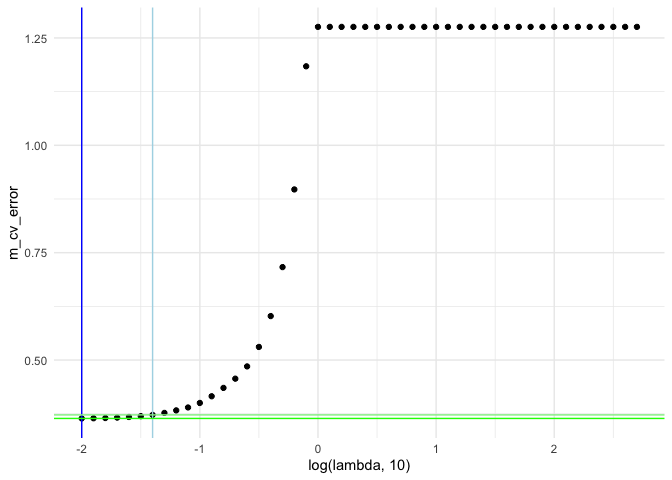
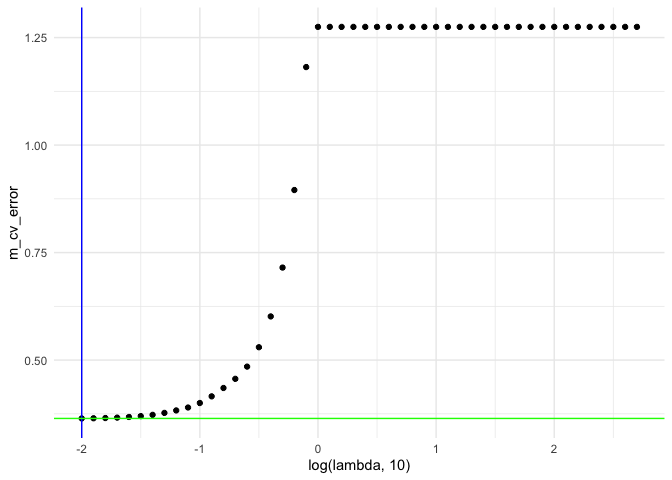
final proofread ~ ready to submit

Changed region(s): [[0.0938, 0.8438, 0.9688, 0.875], [0.0312, 0.0625, 0.0938, 0.0938]]

diff --git a/p8105_hw6_jg5038.md b/p8105_hw6_jg5038.md
@@ -121,7 +121,7 @@ Get the data:
 data("weather_df")
 ```
 
-Write the bootstrap function, run 5000 times and get \$^2,
+Write the bootstrap function, run 5000 times and get $\widehat{r}^2$,
 $\hat{\beta}_1$ and $\hat{\beta}_2$ :
 
 ``` r
@@ -159,10 +159,10 @@ b1_plot + b2_plot
 <img src="p8105_hw6_jg5038_files/figure-gfm/unnamed-chunk-7-1.png" width="90%" />
 
 $\hat{\beta}_1$ and $\hat{\beta}_2$ are both approximately normally
-distributed with means 1.017 and -0.006.
+distributed with means 1.018 and -0.006.
 
-Provide 95% confidence interval for \$^2 and $\hat{\beta}_1$ /
-$\hat{\beta}_2$ :
+Provide 95% confidence interval for $\widehat{r}^2$ and $\hat{\beta}_1$
+/ $\hat{\beta}_2$ :
 
 ``` r
 weather_sample_df |> 
@@ -183,10 +183,10 @@ weather_sample_df |>
 
 | estimate   |     ci.lower |     ci.upper |
 |:-----------|-------------:|-------------:|
-| beta_1_hat |    1.0056121 |    1.0281463 |
-| beta_2_hat |   -0.0083961 |   -0.0034519 |
-| beta_ratio | -294.0147784 | -120.3611740 |
-| r_sq_hat   |    0.9334543 |    0.9458485 |
+| beta_1_hat |    1.0067701 |    1.0252306 |
+| beta_2_hat |   -0.0078664 |   -0.0038033 |
+| beta_ratio | -267.4301170 | -129.4087458 |
+| r_sq_hat   |    0.9349792 |    0.9460010 |
 
 ## Problem 3
 
@@ -290,17 +290,14 @@ lm_3_predictors = function(df) {
 
 lm_3_fit = lm_3_predictors(birth_df)
 
-#get built in plots for diagnostics
-plot(lm_3_fit)
+#check built in plots for diagnostics
+#plot(lm_3_fit)
 ```
-
-<img src="p8105_hw6_jg5038_files/figure-gfm/unnamed-chunk-12-1.png" width="90%" /><img src="p8105_hw6_jg5038_files/figure-gfm/unnamed-chunk-12-2.png" width="90%" /><img src="p8105_hw6_jg5038_files/figure-gfm/unnamed-chunk-12-3.png" width="90%" /><img src="p8105_hw6_jg5038_files/figure-gfm/unnamed-chunk-12-4.png" width="90%" />
 
 Get predictions and look at residuals:
 
 ``` r
-bwt_predictions = 
-  birth_df |> 
+birth_df |> 
   select(bwt_lb) |> 
   mutate(
     bwt_lb_pred = predict(lm_3_fit, newx = x),
@@ -310,7 +307,12 @@ bwt_predictions =
   geom_point(alpha = 0.5)
 ```
 
-Use LASSO to build model:
+<img src="p8105_hw6_jg5038_files/figure-gfm/unnamed-chunk-13-1.png" width="90%" />
+
+This looks ok, the residuals are arranged in a cloud around 0 with no
+obvious pattern.
+
+For practice, use LASSO to build model:
 
 ``` r
 x = model.matrix(bwt_lb ~ ., birth_df)[,-1]
@@ -328,7 +330,6 @@ lambda_opt = lasso_cv[["lambda.min"]]
 lambda_1se = lasso_cv[["lambda.1se"]] 
 
 cv_min = lasso_cv |> broom::tidy() |> filter(lambda == lambda_opt) |> pull(estimate)
-cv_1se = lasso_cv |> broom::tidy() |> filter(lambda == lambda_1se) |> pull(estimate)
 ```
 
 Plot models:
@@ -342,7 +343,6 @@ lasso_fit |>
   ggplot(aes(x = log(lambda, 10), y = estimate, group = term, color = term)) + 
   geom_path() + 
   geom_vline(xintercept = log(lambda_opt, 10), color = "blue", size = 1.2) +
-  geom_vline(xintercept = log(lambda_1se, 10), color = "lightblue", size = 1.2) +
   theme(legend.position = "none")
 ```
 
@@ -363,37 +363,29 @@ lasso_cv |>
     ggplot(aes(x = log(lambda, 10), y = m_cv_error)) +
     geom_point() + 
   geom_vline(xintercept = log(lambda_opt, 10), color = "blue") + 
-  geom_vline(xintercept = log(lambda_1se, 10), color = "lightblue") + 
-  geom_hline(yintercept = cv_min, color = "green") + 
-  geom_hline(yintercept = cv_1se, color = "lightgreen") 
+  geom_hline(yintercept = cv_min, color = "green") 
 ```
 
 <img src="p8105_hw6_jg5038_files/figure-gfm/unnamed-chunk-15-2.png" width="90%" />
 
-We can see the cross validated error is basically the same for optimal
-lambda (all predictors) and lambda within 1 standard deviation.
-
-0.3722869 - 0.3640328 = 0.0082541
-
-Use lambda within 1 se:
-
 ``` r
-lasso_fit_1se = glmnet(x, y, lambda = lambda_1se)
+lasso_final_fit = glmnet(x, y, lambda = lambda_opt)
 ```
 
 Get predictions and plot residuals:
 
 ``` r
-bwt_predictions = 
-  birth_df |> 
+birth_df |> 
   select(bwt_lb) |> 
   mutate(
-    bwt_lb_pred = predict(lasso_fit_1se, newx = x)[,1],
+    bwt_lb_pred = predict(lasso_final_fit, newx = x)[,1],
     residuals = bwt_lb - bwt_lb_pred
   ) |> 
   ggplot(aes(x = bwt_lb_pred, y = residuals)) +
   geom_point(alpha = 0.5)
 ```
+
+<img src="p8105_hw6_jg5038_files/figure-gfm/unnamed-chunk-17-1.png" width="90%" />
 
 Run comparison across models:
 
@@ -409,10 +401,10 @@ lm_3_way_interaction = function(df) {
      data = birth_df)
 }
 
-glm_lambda_1se = function(df) {
+glm_lambda_opt = function(df) {
   y = df |> pull(bwt_lb) 
   x = model.matrix(bwt_lb ~., df)[,-1]
-  glmnet(x, y, lambda = lambda_1se)
+  glmnet(x, y, lambda = lambda_opt)
 }
 
 get_rmse = function(model, df) {
@@ -440,7 +432,7 @@ cv_df =
   ) |> 
   #fit models => use training data
   mutate(
-    glm = map(train, glm_lambda_1se),
+    glm = map(train, glm_lambda_opt),
     lm_3 = map(train, lm_3_predictors),
     lm_me = map(train, lm_main_effects),
     lm_3wi = map(train, lm_3_way_interaction)
@@ -470,11 +462,14 @@ cv_df |>
 
 <img src="p8105_hw6_jg5038_files/figure-gfm/unnamed-chunk-20-1.png" width="90%" />
 
-RMSE is lowest in glm model
+RMSE is lowest in glm model. While the simple linear model performed
+slightly better with the added predictor `m_wtgain_lb` (mother’s weight
+gain in pounds), it was significantly worse than both the linear model
+with interactions and the LASSO model.
 
 | model          | mean_RMSE |
 |:---------------|----------:|
-| glm            |     0.611 |
-| linear_3       |     0.732 |
-| linear_complex |     0.635 |
-| linear_simple  |     0.740 |
+| glm            |     0.606 |
+| linear_3       |     0.730 |
+| linear_complex |     0.636 |
+| linear_simple  |     0.738 |
